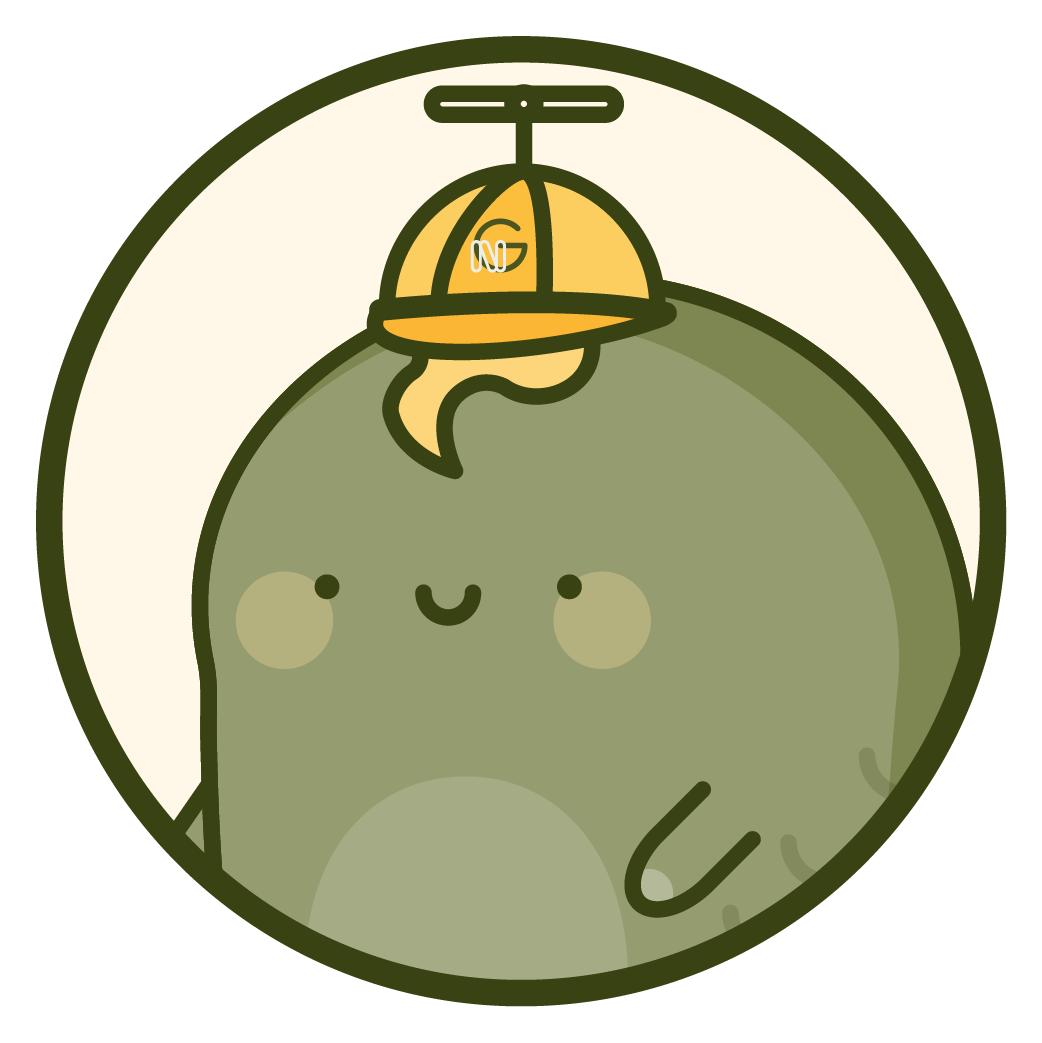
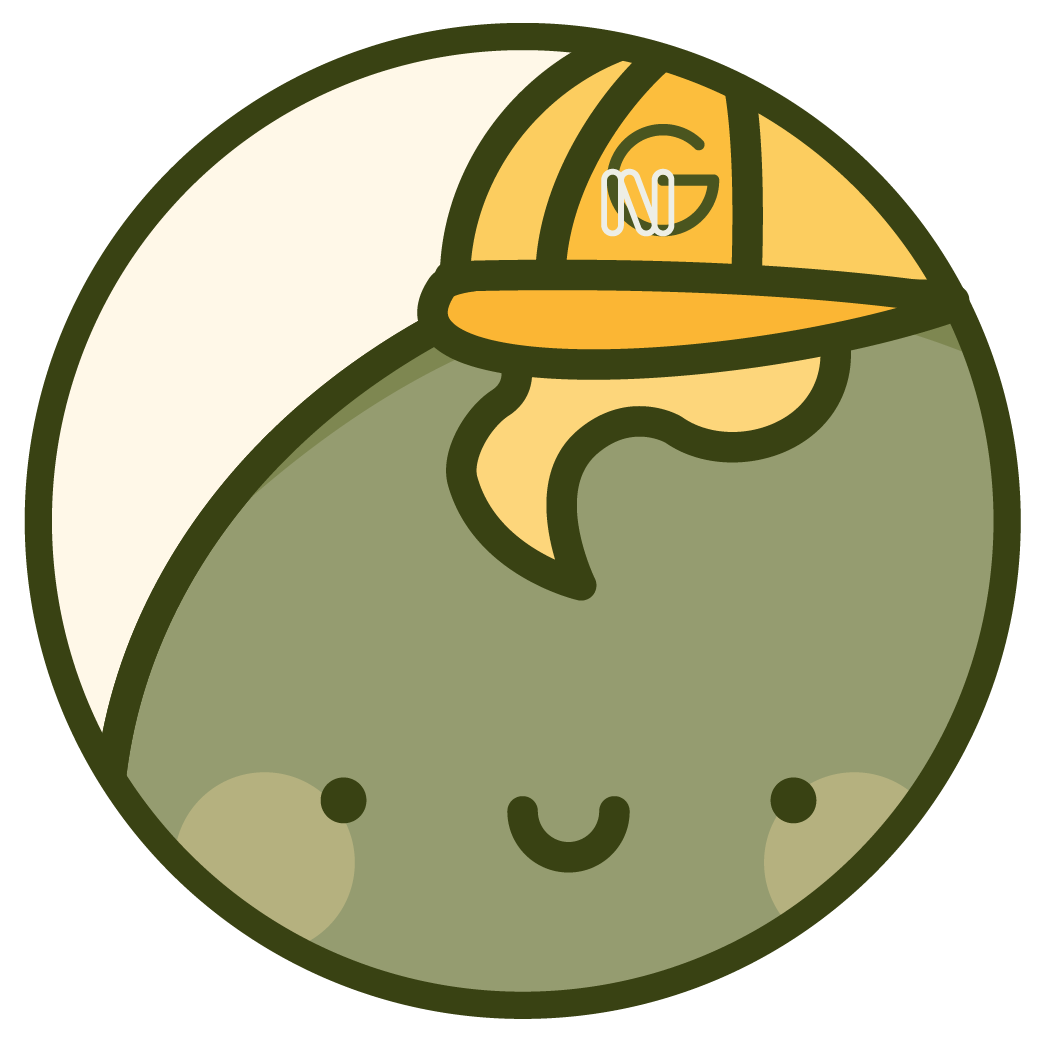
update

diff --git a/src/views/Home/components/FarmStakingCard.tsx b/src/views/Home/components/FarmStakingCard.tsx
@@ -72,7 +72,7 @@ const FarmedStakingCard = () => {
         <Heading size="xl" mb="24px">
           {TranslateString(542, 'Farms & Staking')}
         </Heading>
-        <CardImage src="/images/naga_real_logo.png" alt="cake logo" width={64} height={64} />
+        <CardImage src="/images/naga_real_logo.png" alt="naga logo" width={64} height={64} />
         <Block>
           <Label>{TranslateString(544, 'NAGA to Harvest')}</Label>
           <CakeHarvestBalance earningsSum={earningsSum}/>

diff --git a/src/views/Farms/Farms.tsx b/src/views/Farms/Farms.tsx
@@ -116,7 +116,7 @@ const Farms: React.FC<FarmsProps> = (farmsProps) => {
           </Route>
         </FlexLayout>
       </div>
-      <Image src="images/Naga_char/Character-01.png" alt="illustration" width={380} height={525.96} marginLeft = {280} marginTop = {100} />
+      <Image src="images/Naga_char/Character-02.png" alt="illustration" width={380} height={525.96} marginLeft = {280} marginTop = {100} />
     </Page>
   )
 }
